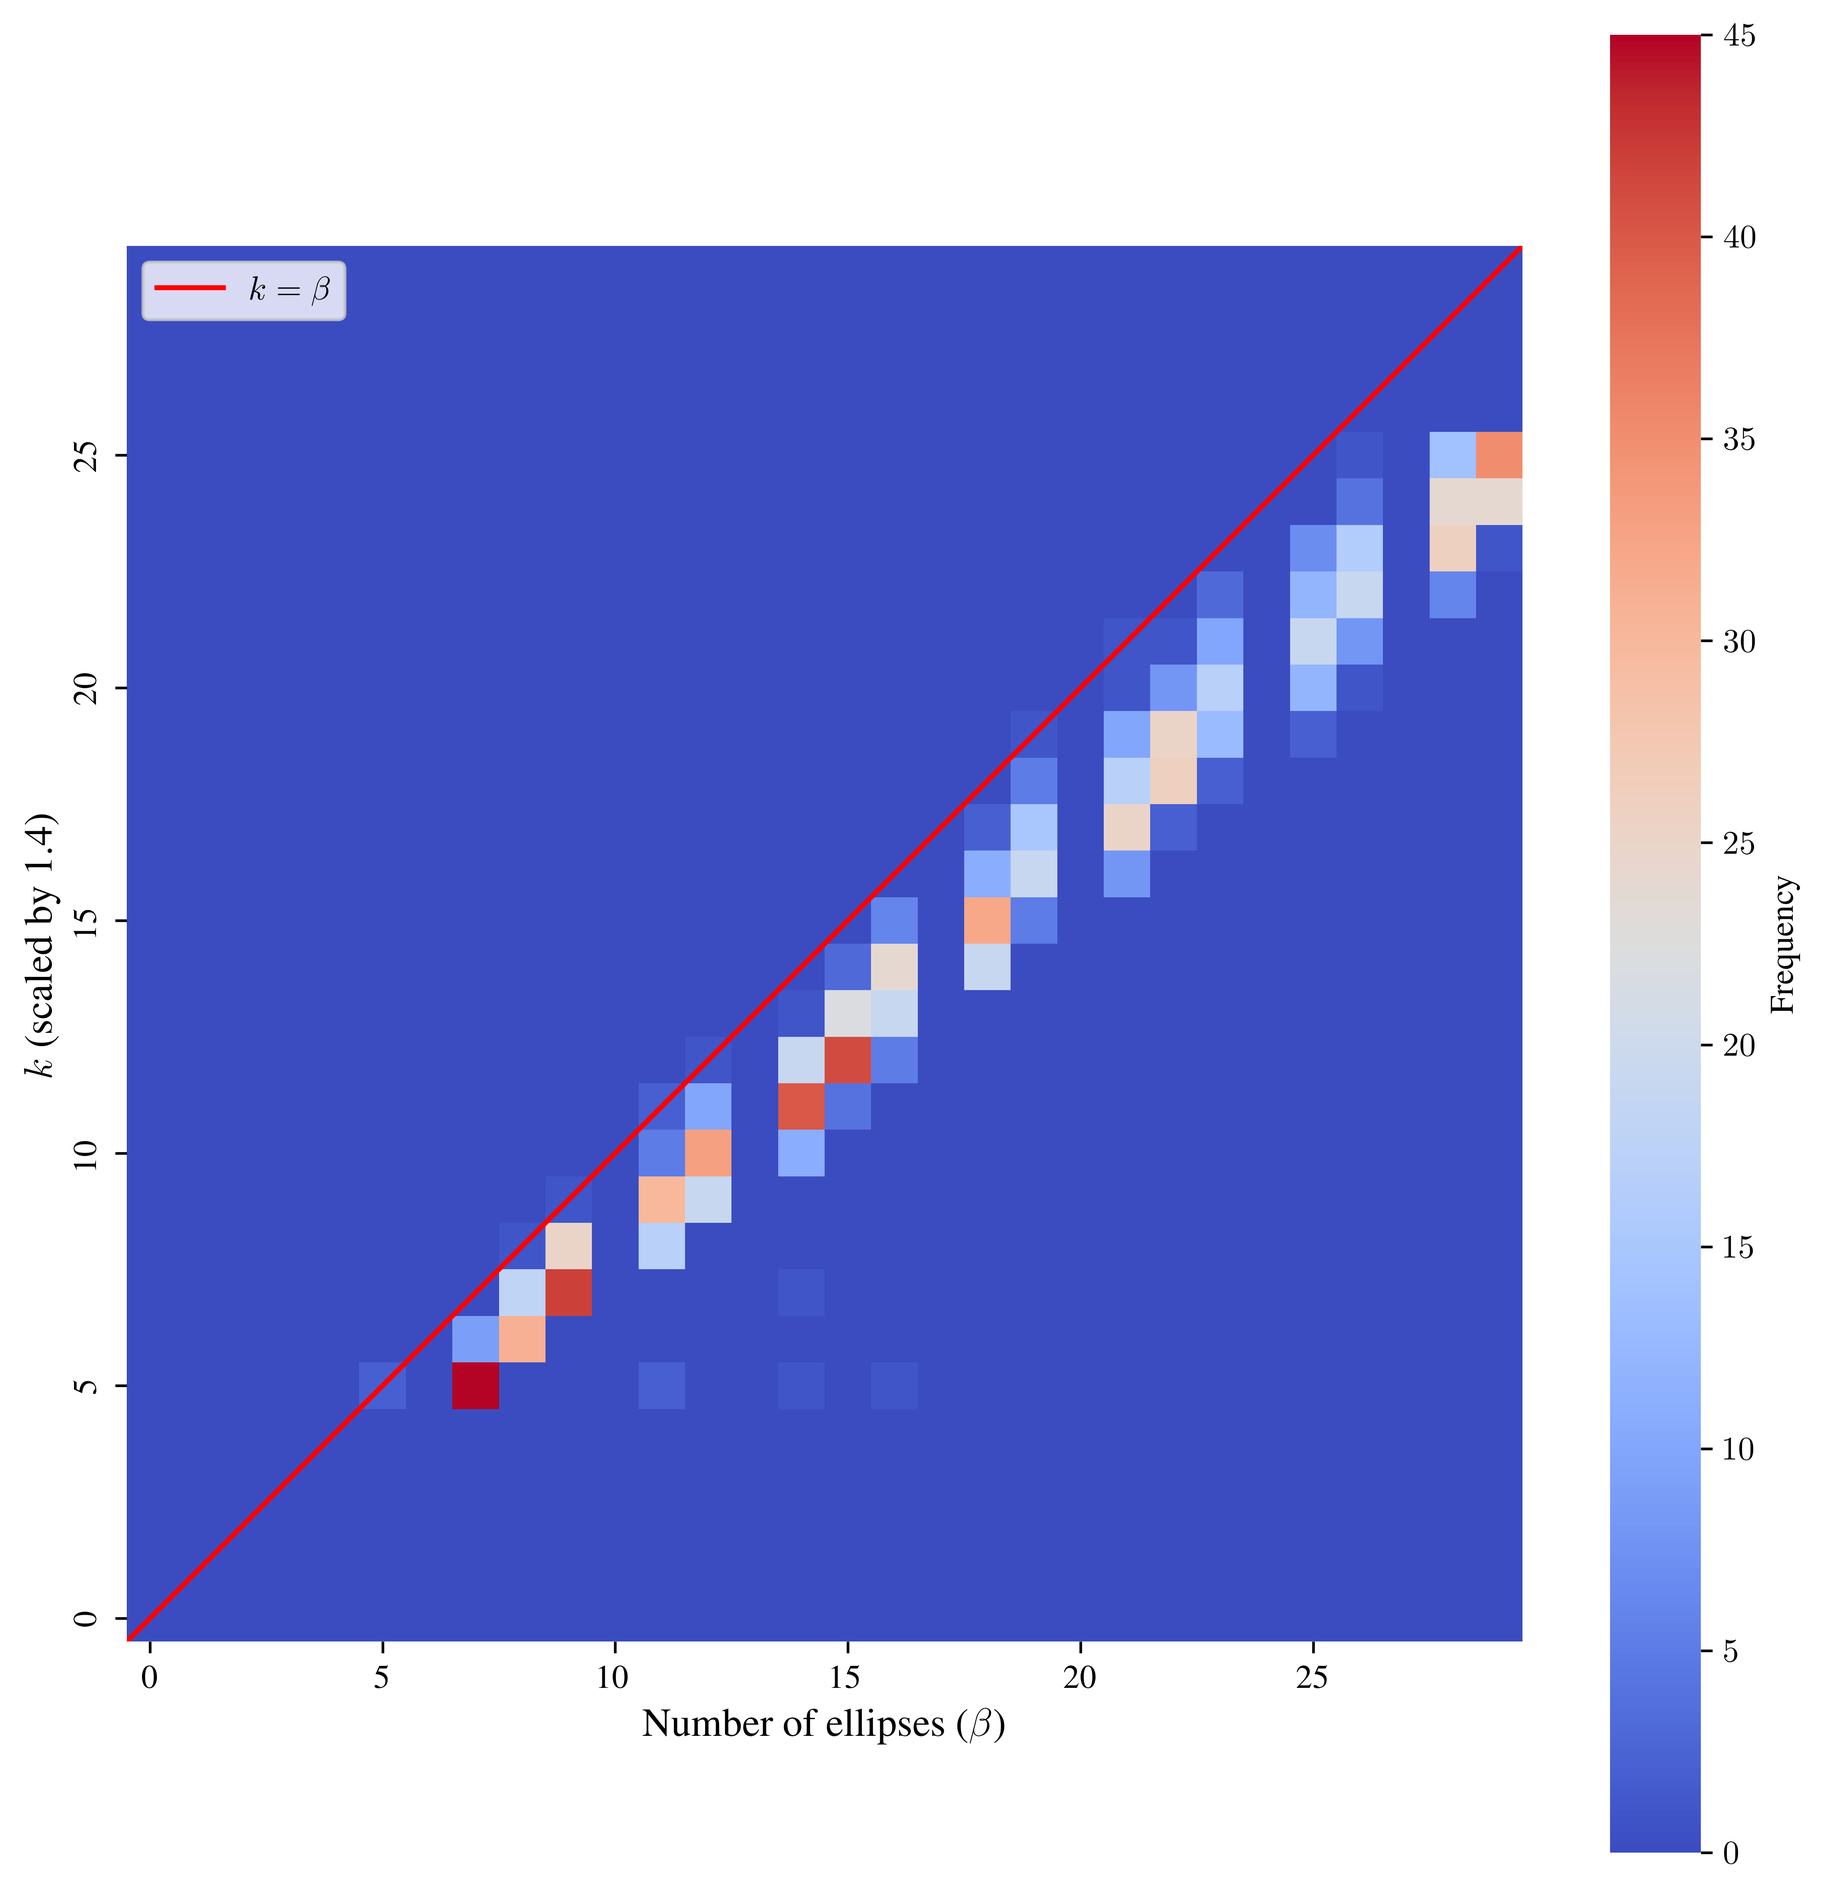
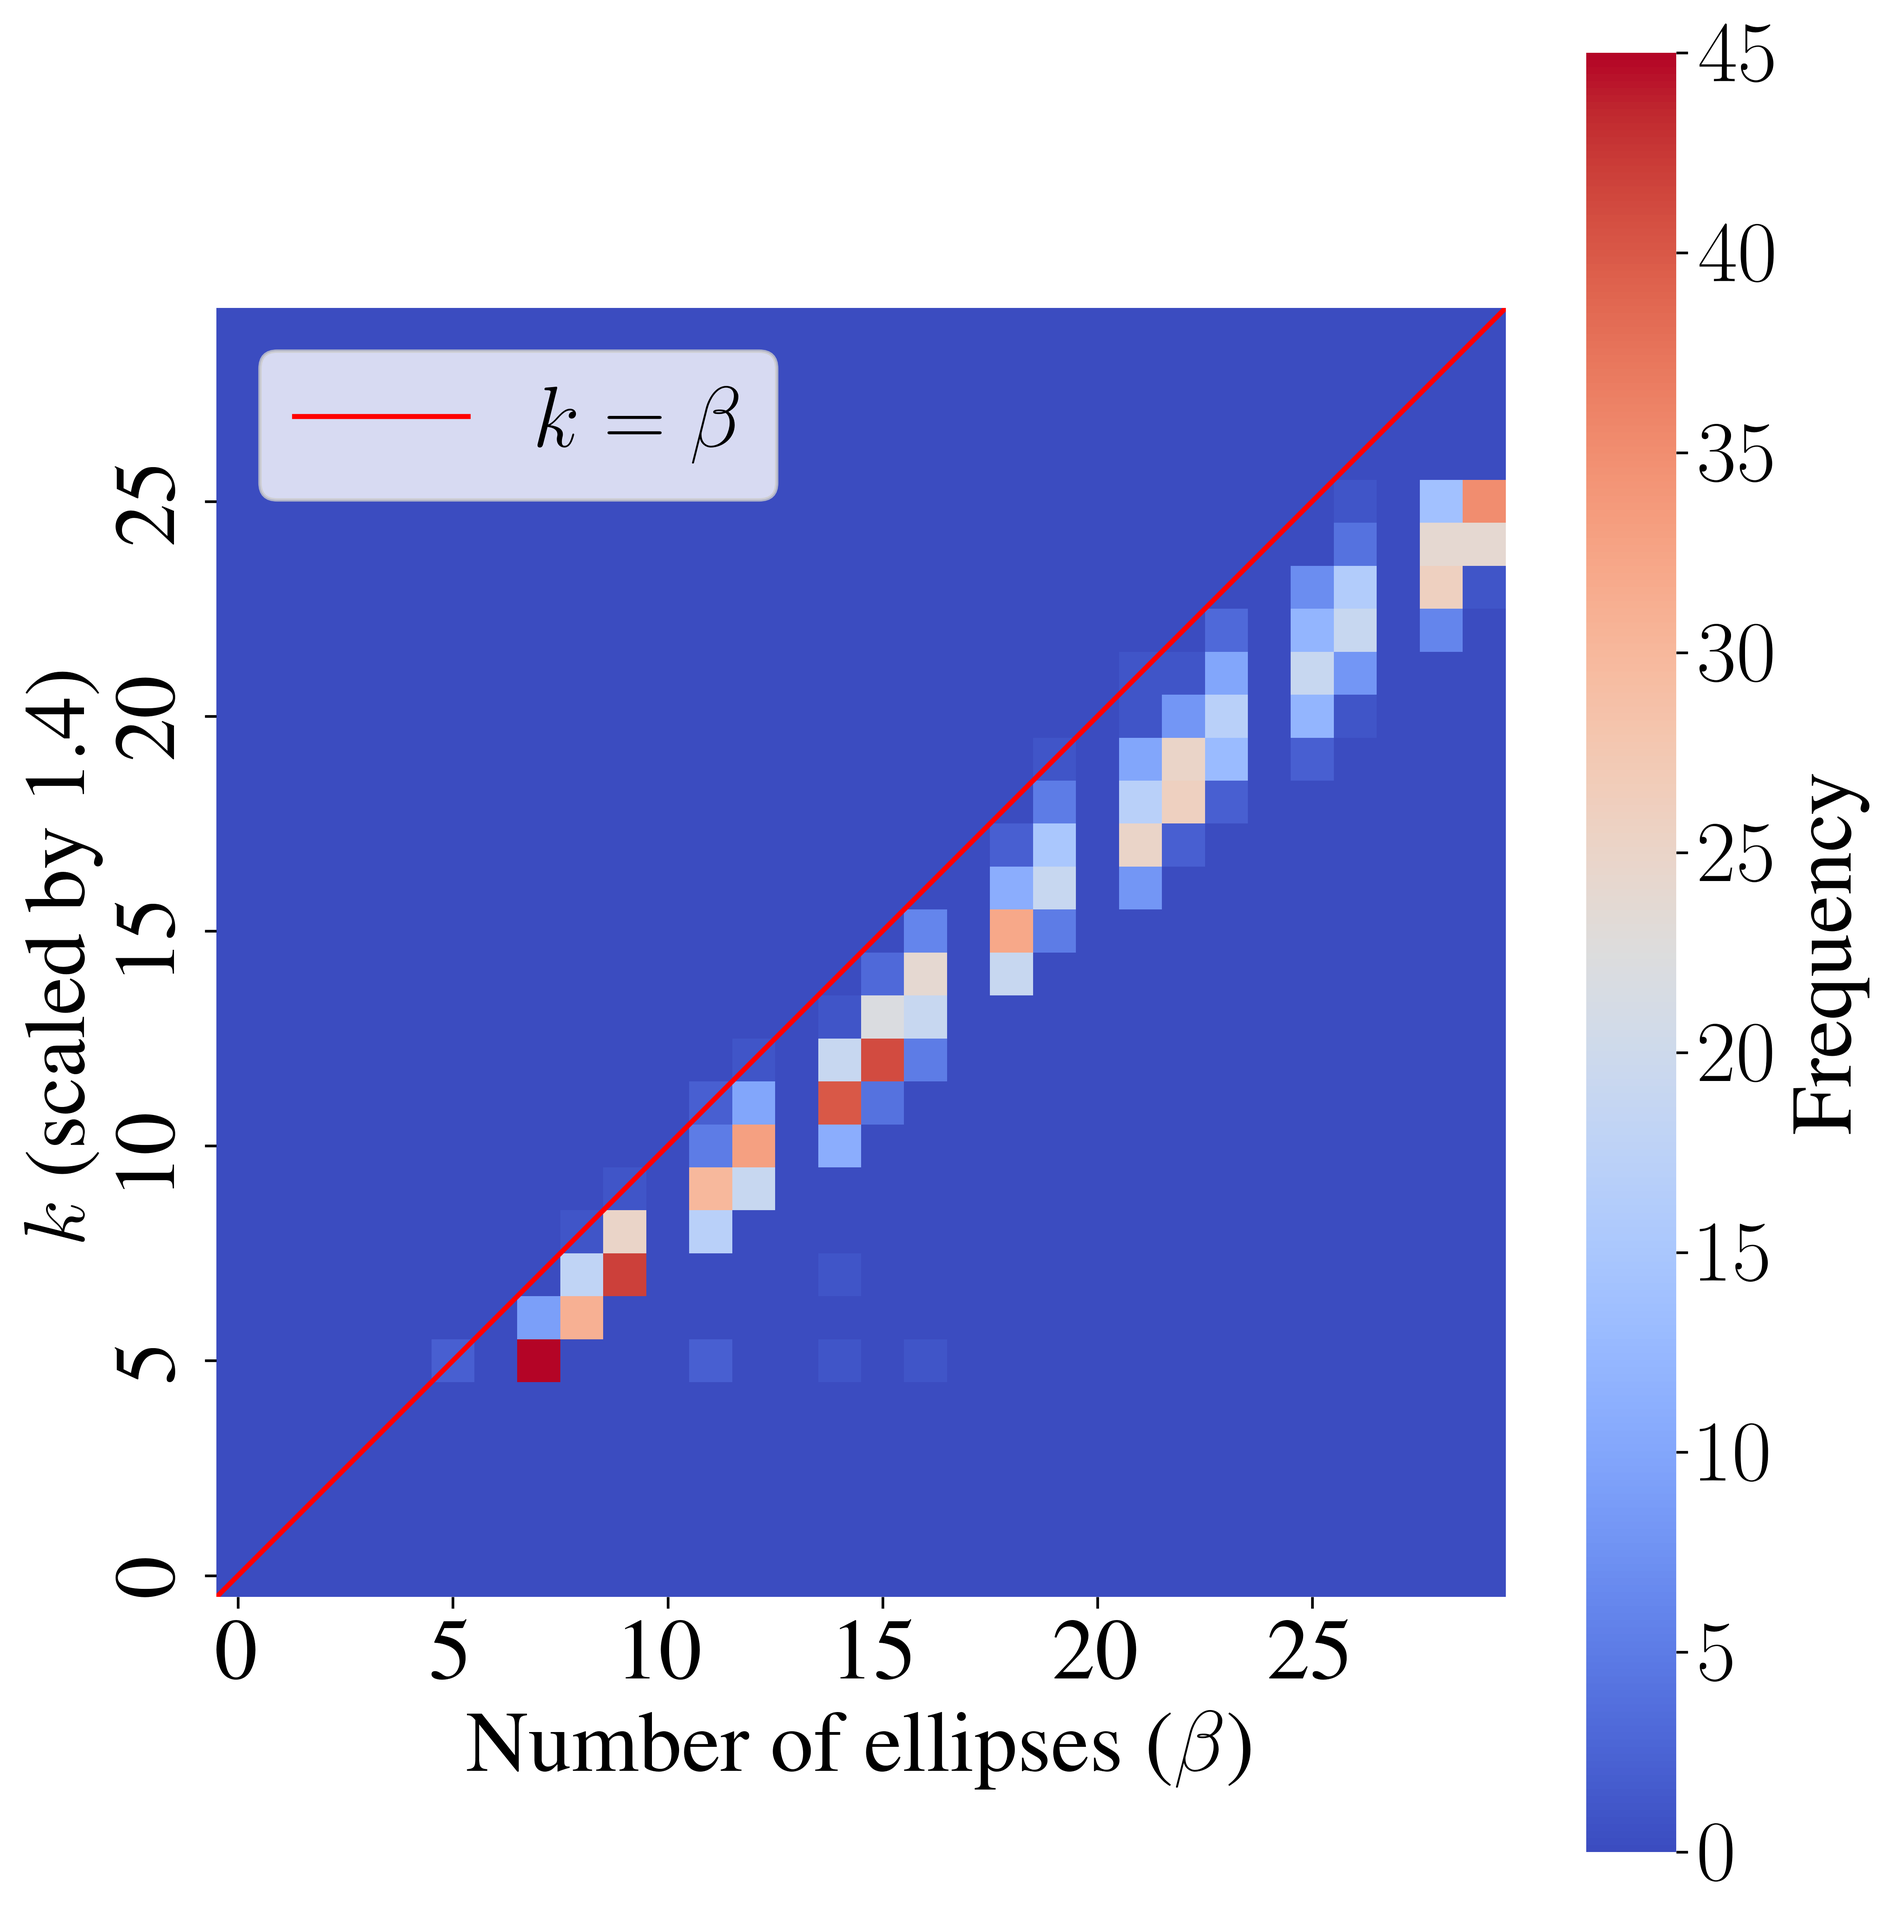
调整图表字体大小，统一为26，增强可读性

Changed region(s): [[0.0, 0.0, 0.9963, 0.9994], [0.1868, 0.7183, 0.2179, 0.7495], [0.1557, 0.7495, 0.1868, 0.7808]]

diff --git a/main.py b/main.py
@@ -15,6 +15,9 @@ plt.rcParams["font.family"] = "Times New Roman"
 plt.rcParams["text.usetex"] = True
 matplotlib.rcParams["text.latex.preamble"] = r"\usepackage{times}"
 
+# Global font size variable
+FONT_SIZE = 26
+
 
 def generate_random_rotation_matrix(size):
     Q, _ = np.linalg.qr(np.random.randn(size, size))
@@ -102,17 +105,26 @@ def plot_heatmap(data, cmap, output_filename, variance, title):
         ax=ax,
     )
 
+    # Set font size for all text elements
+    cbar = ax.collections[0].colorbar
+    cbar.ax.tick_params(labelsize=FONT_SIZE)  # Colorbar tick labels
+    cbar.set_label("Frequency", fontsize=FONT_SIZE)  # Colorbar label
+
     ax.set_aspect("equal")
     ax.invert_yaxis()
-    ax.set_xlabel(r"Number of ellipses ($\beta$)", fontsize=12)
-    ax.set_ylabel(r"$k$ (scaled by 1.4)", fontsize=12)
+    ax.set_xlabel(r"Number of ellipses ($\beta$)", fontsize=FONT_SIZE)
+    ax.set_ylabel(r"$k$ (scaled by 1.4)", fontsize=FONT_SIZE)
+
+    # Adjust tick font sizes for x and y axes
+    ax.tick_params(axis="x", labelsize=FONT_SIZE)  # X-axis tick font size
+    ax.tick_params(axis="y", labelsize=FONT_SIZE)  # Y-axis tick font size
 
     # Adding only the red y=x line
-    ax.plot([0, 30], [0, 30], "r-", label=r"$$k = \beta$$")
+    ax.plot([0, 30], [0, 30], "r-", label=r"$k = \beta$")
 
-    ax.legend(fontsize=10)
+    ax.legend(fontsize=FONT_SIZE)
 
-    plt.title(title, fontsize=14)
+    plt.title(title, fontsize=FONT_SIZE)
     plt.tight_layout()
     plt.savefig(output_filename, dpi=600, bbox_inches="tight")
     print(f"Figure saved as {output_filename}")
